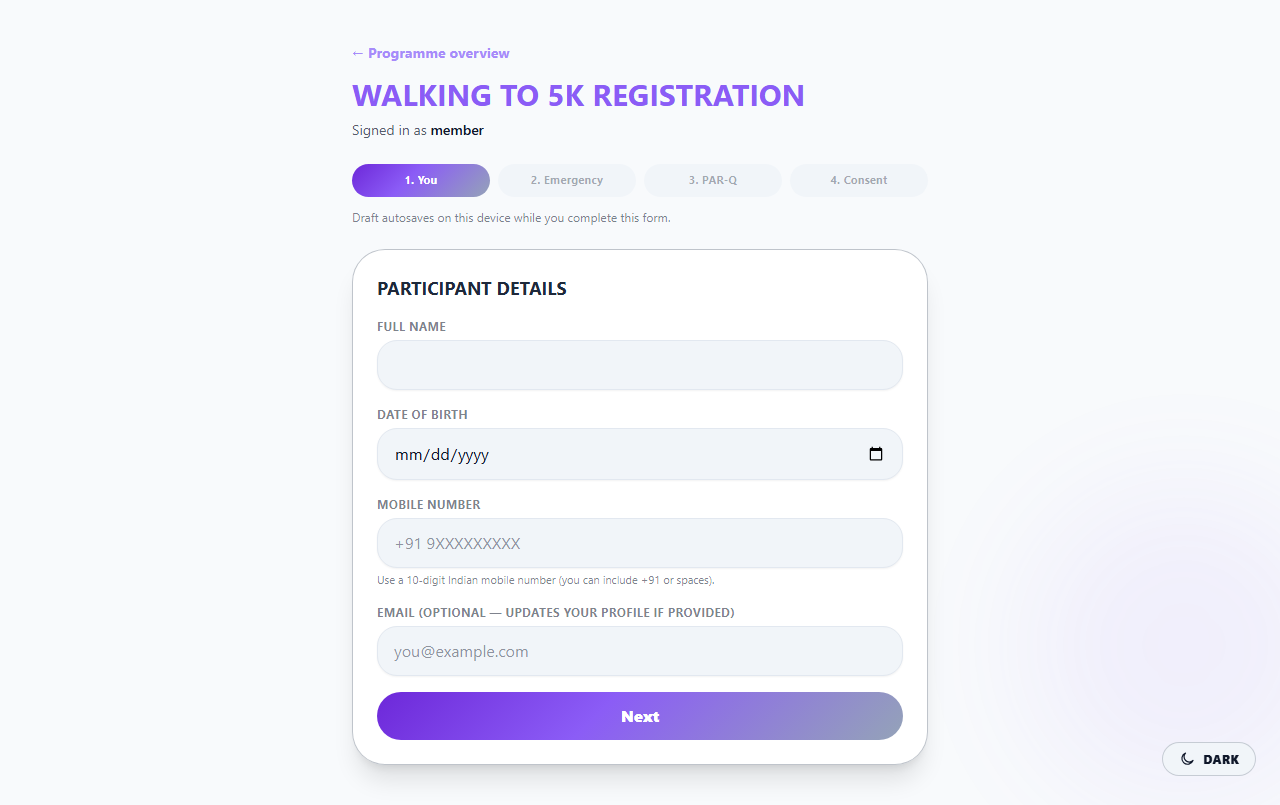
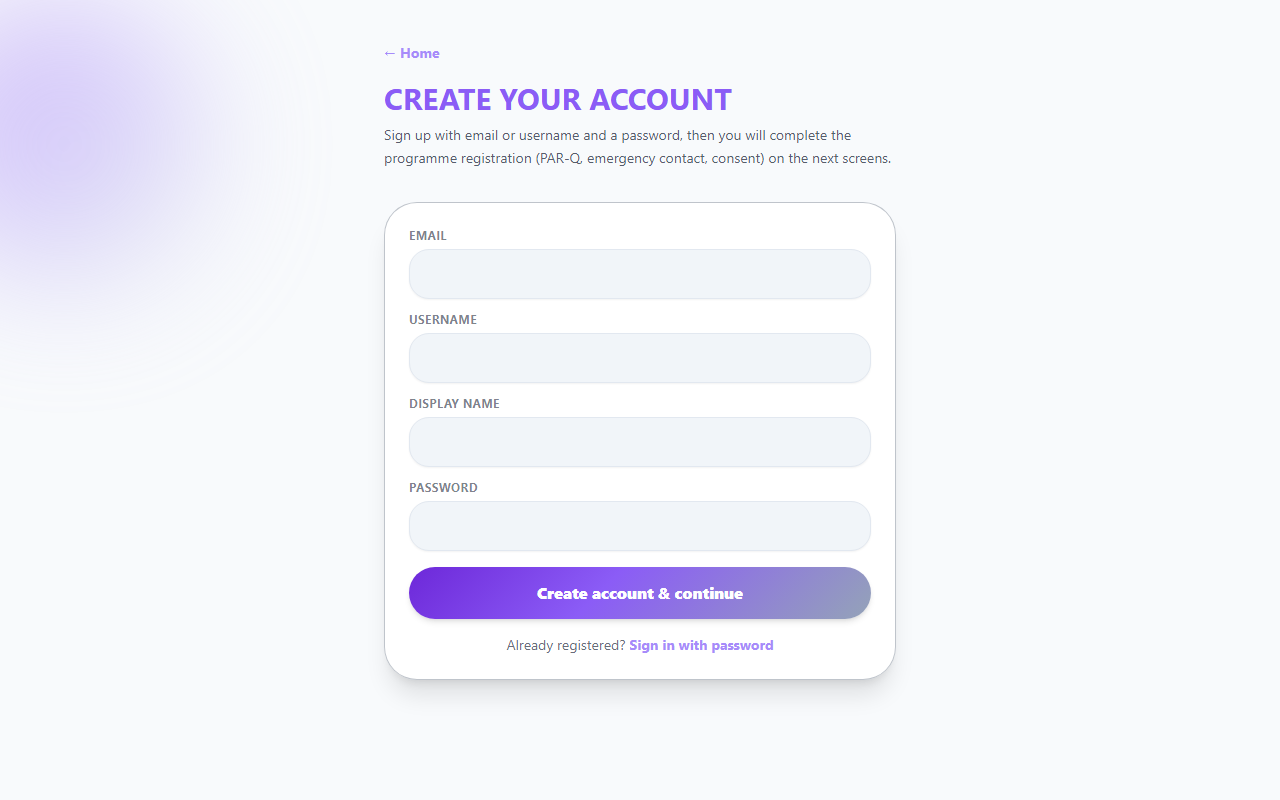
chore(repo): dedupe root assets, move C25K design doc, refresh guide exports
Remove duplicate logo JPG and Walking to 5K PDF from repo root (canonical copies under public/). Relocate couch-to-5k design HTML to docs/, update brand and curriculum references, and gitignore duplicate member-guide PDF filenames. Refresh Sister-Stride member guide PDF and two Playwright guide screenshots.

diff --git a/src/lib/programs/c25k-curriculum.ts b/src/lib/programs/c25k-curriculum.ts
@@ -1,4 +1,4 @@
-/** Static curriculum copy aligned with `sss-couch-to-5k-design.html` (design reference, not a legal promise). */
+/** Static curriculum copy aligned with `docs/couch-to-5k-design.html` (design reference, not a legal promise). */
 
 import { C25K_WEEKS, type C25kWeek, type C25kWeekSession } from "./c25k-weeks-data";
 

diff --git a/docs/BRAND_AND_UI.md b/docs/BRAND_AND_UI.md
@@ -30,4 +30,4 @@ The in-app visual system is aligned with the official **logo** (`public/brand/lo
 
 ## Source file
 
-The original high-res file may live at repo root as `105454.jpg`; the deployed asset path is **`/brand/logo-full.jpg`**.
+Canonical logo asset: **`public/brand/logo-full.jpg`** (served at **`/brand/logo-full.jpg`**).